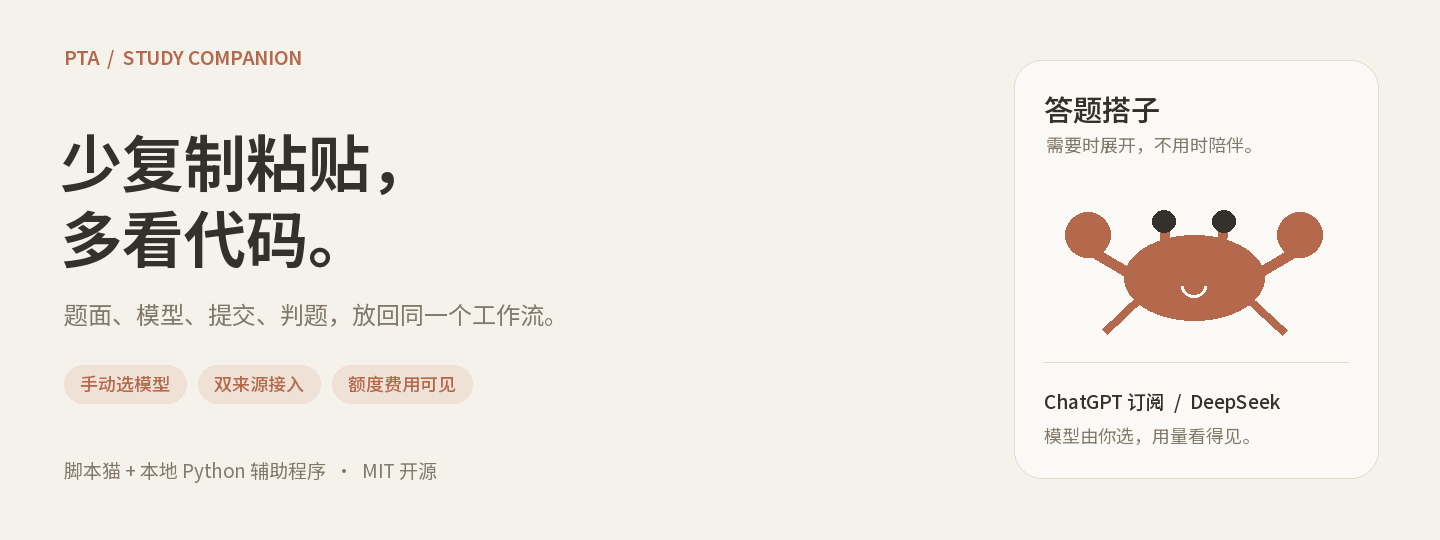
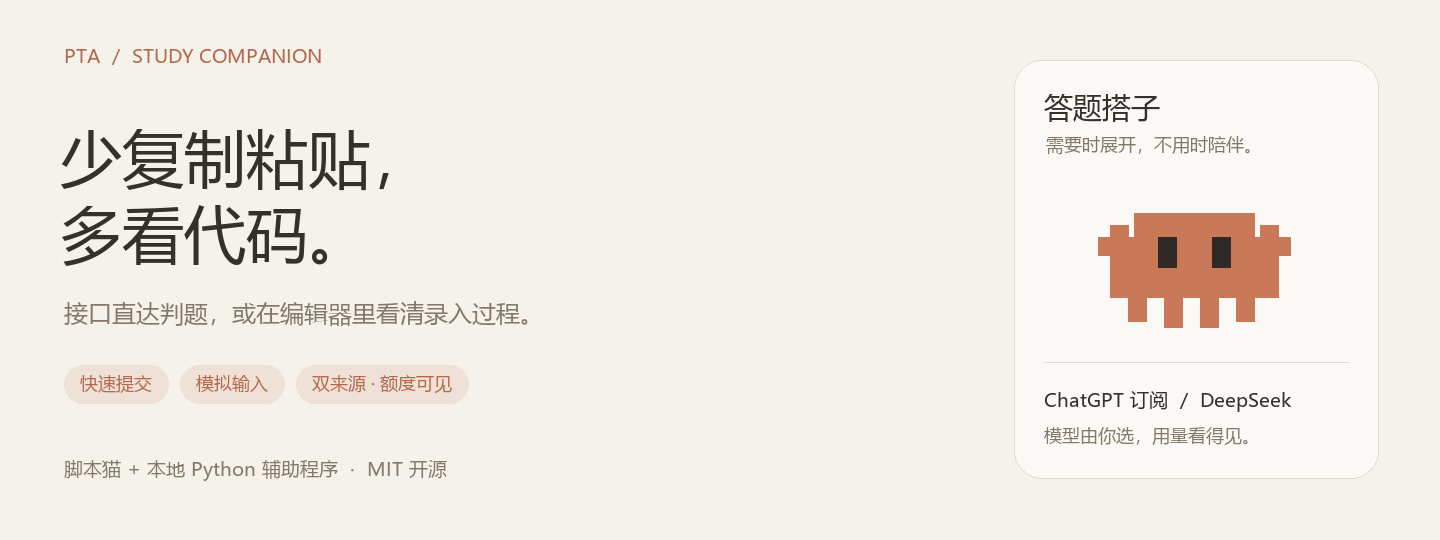
Explain answer modes, add DeepSeek-first setup and Codex guide, correct pixel mascot

diff --git a/scripts/render_readme_assets.py b/scripts/render_readme_assets.py
@@ -1,6 +1,7 @@
-"""Render original README illustrations; demo values only. Requires Pillow + external CJK font."""
+"""Render README layouts using the shipped pet SVG; demo values only. Requires Pillow + CJK font."""
 from pathlib import Path
-import argparse
+import argparse, re
+import xml.etree.ElementTree as ET
 from PIL import Image, ImageDraw, ImageFont
 
 PAPER='#F5F2EB'; CARD='#FAF9F5'; INK='#34312B'; MUTED='#82796B'; LINE='#E2DCD0'; ACCENT='#B4694D'; SOFT='#EFE1D5'
@@ -17,35 +18,60 @@ def rule(d,x,y,w):d.line((x,y,x+w,y),fill=LINE,width=1)
 def pill(d,x,y,s):
  w=int(d.textlength(s,font=font(18,500)))+32;rr(d,(x,y,x+w,y+38),SOFT,19,SOFT);text(d,(x+16,y+5),s,18,ACCENT,500);return w
 
-def crab(d,x,y,scale=1):
- # Original geometric mascot illustration, not a service-provider logo.
- for dx in [-1,1]:
-  d.line((x+dx*45*scale,y+15*scale,x+dx*83*scale,y-8*scale),fill=ACCENT,width=int(9*scale))
-  d.line((x+dx*42*scale,y+30*scale,x+dx*72*scale,y+58*scale),fill=ACCENT,width=int(7*scale))
-  d.ellipse((x+dx*85*scale-18*scale,y-38*scale,x+dx*85*scale+18*scale,y-2*scale),fill=ACCENT)
- d.ellipse((x-56*scale,y-20*scale,x+56*scale,y+48*scale),fill=ACCENT)
- for dx in [-1,1]:
-  d.line((x+dx*22*scale,y-5*scale,x+dx*24*scale,y-30*scale),fill=ACCENT,width=int(8*scale))
-  d.ellipse((x+dx*24*scale-9*scale,y-40*scale,x+dx*24*scale+9*scale,y-22*scale),fill=INK)
- d.arc((x-10*scale,y+12*scale,x+10*scale,y+30*scale),0,180,fill=CARD,width=int(3*scale))
+def pixel_pet(d,x,y,scale=1):
+ # Read the shipped artwork, rather than inventing a different mascot for docs.
+ # This intentionally supports only the orthogonal SVG commands used by PET.
+ source=(out.parents[1]/'pta-luna.user.js').read_text(encoding='utf-8')
+ match=re.search(r"const PET = '([^']+)';",source)
+ if not match:raise ValueError('PET SVG was not found in the userscript')
+ def paint(element,inherited=ACCENT):
+  fill=element.get('fill',inherited)
+  if element.tag.rsplit('}',1)[-1]=='path':
+   path=element.get('d','')
+   if re.search(r'[^MmLlHhVvZz0-9.\-\s]',path):
+    raise ValueError('PET SVG contains an unsupported path command')
+   tokens=re.findall(r'[MmLlHhVvZz]|-?\d+(?:\.\d+)?',path)
+   i=0;cx=cy=0;points=[];command=None
+   while i<len(tokens):
+    if tokens[i].isalpha():command=tokens[i];i+=1
+    if command.upper()=='Z':
+     if points:d.polygon([(x+px*scale,y+py*scale) for px,py in points],fill=fill);cx,cy=points[0]
+     points=[];command=None;continue
+    relative=command.islower();kind=command.upper()
+    if kind in ('M','L'):
+     px=float(tokens[i]);py=float(tokens[i+1]);i+=2
+     cx=px+cx if relative else px;cy=py+cy if relative else py
+     if kind=='M':
+      if points:raise ValueError('PET has an unclosed subpath')
+      command='l' if relative else 'L'
+    elif kind=='H':
+     value=float(tokens[i]);i+=1;cx=value+cx if relative else value
+    elif kind=='V':
+     value=float(tokens[i]);i+=1;cy=value+cy if relative else value
+    else:raise ValueError('Unsupported PET path command')
+    points.append((cx,cy))
+   if points:raise ValueError('PET has an unclosed path')
+  for child in element:paint(child,fill)
+ paint(ET.fromstring(match.group(1)))
 
 im=Image.new('RGB',(1440,540),PAPER);d=ImageDraw.Draw(im)
 text(d,(64,42),'PTA  /  STUDY COMPANION',19,ACCENT,600)
 text(d,(60,115),'少复制粘贴，',62,INK,650);text(d,(60,191),'多看代码。',62,INK,650)
-text(d,(64,296),'题面、模型、提交、判题，放回同一个工作流。',24,MUTED)
+text(d,(64,296),'接口直达判题，或在编辑器里看清录入过程。',24,MUTED)
 x=64
-for s in ['手动选模型','双来源接入','额度费用可见']:x+=pill(d,x,365,s)+12
+for s in ['快速提交','模拟输入','双来源 · 额度可见']:x+=pill(d,x,365,s)+12
 text(d,(64,455),'脚本猫 + 本地 Python 辅助程序  ·  MIT 开源',19,MUTED)
 rr(d,(1014,60,1378,478),CARD,28)
 text(d,(1044,87),'答题搭子',29,INK,550);text(d,(1046,131),'需要时展开，不用时陪伴。',18,MUTED)
-crab(d,1194,260,1.25)
+pixel_pet(d,1098,177,6)
 rule(d,1044,362,304);text(d,(1044,386),'ChatGPT 订阅  /  DeepSeek',19,INK,500)
 text(d,(1044,422),'模型由你选，用量看得见。',18,MUTED)
 im.save(out/'hero.png',optimize=True)
 
 im=Image.new('RGB',(1440,850),PAPER);d=ImageDraw.Draw(im)
 text(d,(44,30),'把选择权和用量，放在你看得见的地方。',34,INK,600)
-text(d,(45,87),'界面示意 · 数值为演示数据，模型与账号资格以实际接口为准',18,MUTED)
+text(d,(45,87),'Claude 风格简约布局 · Clawd 风格像素桌宠 · 数字为演示值',18,MUTED)
+pixel_pet(d,1280,20,2.5)
 # Left: root + usage submenu.
 text(d,(44,150),'01  随手唤出的桌宠菜单',20,ACCENT,550)
 rr(d,(44,197,365,520))

diff --git a/docs/CODEX_SETUP.md b/docs/CODEX_SETUP.md
@@ -1,0 +1,130 @@
+# Windows 从零配置 Codex：先装环境，再验证额度查询
+
+[返回首页](../README.md) · [项目使用指南](USAGE.md) · [排错](TROUBLESHOOTING.md)
+
+**只用 DeepSeek？无需阅读这条安装路线，直接按 [使用指南开头的简短配置](USAGE.md) 导入脚本并填写自己的 Key。** Codex / ChatGPT 订阅的模型配置也在使用指南中；本文重点补齐 CLI 安装与额度查询。
+
+这份教程针对实际遇到的两个起点：**没有安装 Node.js 环境，没有安装 Codex CLI**。下载本项目只会得到项目文件，不会自动安装这两个独立工具。以下采用 Windows PowerShell + npm 安装路线；这条路线需要先装 Node.js，Codex 官方的其他安装方式以官方文档为准。
+
+目标是让你完成 CLI 安装、ChatGPT 登录与本项目的额度查询接入。它不是整个 Codex 开发生态的配置教程，不涵盖插件、MCP、IDE 或所有自定义模型服务。账号资格和网络仍需实际验证，不能承诺每台电脑一次成功。
+
+## 先决定需要安装什么
+
+| 目标 | 必需组件 |
+| --- | --- |
+| 只用 DeepSeek 答题 | 浏览器、脚本猫、用户脚本、自己的 DeepSeek API Key |
+| 用 ChatGPT 订阅答题 | 浏览器、脚本猫、用户脚本、Python 3.10+、本地辅助程序及自己的有效 ChatGPT 授权 |
+| 在桌宠里查 Codex 额度 | 上面的本地辅助程序，加上已安装且登录同一 ChatGPT 账号的 Codex CLI；本教程用 Node.js/npm 安装 CLI |
+
+**浏览器登录 ChatGPT、辅助程序登录、Codex CLI 登录是不同环节。** 安装桌面应用也不能替代 CLI 的 PATH 检查。本项目通过 CLI 的 app-server 读取账号额度，不读取它的登录文件。
+
+## 1. 安装 Node.js LTS，确认 npm 一起可用
+
+1. 打开 [Node.js 官方下载页](https://nodejs.org/en/download)，选择当前受支持的 **LTS** 与 Windows 安装包；按电脑架构选择，不要下载其他系统版本。
+2. 运行安装程序，保留 npm 和加入 PATH 的选项。
+3. 安装完成后关闭旧 PowerShell，再开一个新窗口，依次运行：
+
+```powershell
+node --version
+npm.cmd --version
+where.exe node
+where.exe npm
+```
+
+**成功标志：** 前两条各输出版本号，后两条能找到实际安装路径。未通过就先解决 Node.js 安装或 PATH，不要继续运行 CLI 安装命令。
+
+- `node`、`npm.cmd` 都找不到：通常尚未安装，或当前窗口还没继承新 PATH。先重开终端，再检查安装。
+- `node` 可用但 `npm.cmd` 找不到：检查 Node.js 安装时是否包含 npm，以及 `where.exe node` 是否指向另一套旧环境。
+- PowerShell 提示无法运行 `npm.ps1`：这里使用 `npm.cmd`，无需为了安装去放宽系统执行策略。
+
+## 2. 用 npm 安装 Codex CLI
+
+按 [Codex 官方 CLI 文档](https://developers.openai.com/codex/cli) 的 npm 安装方式，在新 PowerShell 运行：
+
+```powershell
+npm.cmd install -g @openai/codex@latest
+```
+
+安装命令成功结束后，再检查：
+
+```powershell
+codex.cmd --version
+where.exe codex
+```
+
+**成功标志：** CLI 输出版本号，并能找到 `codex` 启动文件。Node.js 安装成功不等于 Codex CLI 已安装；`npm --version` 也不能替代这一步。
+
+如果安装报 `EPERM`、默认全局目录不可写，可按 [使用指南](USAGE.md) 的当前用户目录方案安装。若 npm 安装成功但找不到命令，运行 `npm.cmd prefix -g` 查看实际全局目录；Windows 的 npm 启动文件通常放在这个目录。确认目录中的 `codex.cmd` 存在，再检查该目录是否加入用户 PATH，并重开终端。不要猜磁盘路径或给整个磁盘放开权限。
+
+## 3. 登录与辅助程序相同的 ChatGPT 账号
+
+先关闭正在运行的本地辅助程序，避免登录回调端口冲突。运行：
+
+```powershell
+codex.cmd login
+```
+
+在打开的官方登录页选择与本地辅助程序相同的 ChatGPT 账号，完成授权后回到终端。然后检查：
+
+```powershell
+codex.cmd login status
+```
+
+**成功标志：** 登录状态表明已使用 ChatGPT 登录，而不是未登录或仅配置了 API Key。不要把登录凭据复制进脚本或公开截图。
+
+需要独立使用 Codex 编程时，可在自己的项目目录运行 `codex.cmd`，做一次最小任务并检查结果；这会使用账号额度。只想接入额度查询时，不必额外生成代码。
+
+## 4. 验证 CLI 支持 app-server
+
+```powershell
+codex.cmd app-server --help
+```
+
+**成功标志：** 能显示 app-server 帮助。如果是未知子命令，先更新 CLI。这里只检查命令能力，不代表账号额度接口已经成功；无需手动启动并长期保留 app-server，辅助程序会按需启动它。
+
+## 5. 重启辅助程序，完成本项目连接
+
+1. 确认已退出旧辅助程序；安装前启动的进程可能还在使用旧 PATH。
+2. 从新终端进入完整解压的项目目录，运行 `start-windows.cmd`（或在资源管理器中双击）。如果双击仍看不到 CLI，优先从已经能执行 `where.exe codex` 的新终端启动。
+3. 在管理页用自己的 ChatGPT 账号登录；若此前已登录，先核对账号，无需为更新文档重新登录。
+4. 在 PTA 的“解题模型设置”填入本机地址和配对码，点击“读取账号模型并检查连接”，选择模型与推理强度并保存。
+5. 右键桌宠 → **消耗体力 → Codex 额度**。
+
+在 PowerShell 中进入项目目录后，启动命令是：
+
+```powershell
+.\start-windows.cmd
+```
+
+**最终成功标志：** 额度卡片显示接口返回的窗口、剩余百分比和重置时间。仅看到 CLI 版本、登录成功或模型目录，都不能代替这次查询验证。
+
+首次查询没有可比较基线，括号为 `（—）` 是正常状态；15 秒内可能使用标记过的缓存。百分比来自账号整体窗口，不等于本脚本的单题费用。CLI 与辅助程序邮箱不一致时，程序会拒绝展示；工作区仍需自行核对。
+
+## 两个实际遇到的问题
+
+| 问题 | 现象与原因 | 解决后怎样确认 |
+| --- | --- | --- |
+| Node.js 环境没安装 | npm 安装路线的第一步就无法执行，提示 `node` 或 `npm` 不是可识别命令；项目 ZIP 不包含 Node.js | 安装官方 LTS、重开终端，`node --version` 与 `npm.cmd --version` 都输出版本号 |
+| Codex CLI 没安装 | Node.js 已经可用，但 `codex` 找不到，桌宠提示未检测到 CLI；Node.js 不会自动安装 Codex | 执行 npm 安装，确认 `codex.cmd --version`、`where.exe codex`，再登录、重启辅助程序并实际查询额度 |
+
+## 按这一顺序排查
+
+```text
+node / npm 都找不到 → 先安装 Node.js LTS，再开新终端
+npm 能运行，codex 找不到 → 安装 CLI，检查 npm 全局目录与 PATH
+CLI 能运行，尚未登录 → codex.cmd login，再检查 login status
+登录成功，项目仍找不到 CLI → 退出旧辅助程序，从新终端重新启动
+提示账号不一致 → 核对 CLI 和辅助程序的 ChatGPT 账号
+额度卡片仍失败 → 保存脱敏错误，按排错文档检查；不要反复发起推理
+```
+
+安装和查询额度不会替你完成 PTA 脚本导入、模型选择或练习题的在线验证。完整答题流程还需按 [使用指南](USAGE.md) 做一题检查。
+
+## 官方资料
+
+- [Node.js 下载](https://nodejs.org/en/download)
+- [Codex CLI 安装与首次使用](https://developers.openai.com/codex/cli)
+- [Codex 命令参考：login、login status、app-server](https://developers.openai.com/codex/cli/reference)
+- [Codex app-server 账号与额度接口](https://developers.openai.com/codex/app-server)
+
+核对日期：2026-10-17。上游命令、账号能力与可用模型变化时，以官方文档和实际响应为准。

diff --git a/docs/TROUBLESHOOTING.md b/docs/TROUBLESHOOTING.md
@@ -2,10 +2,14 @@
 
 [返回首页](../README.md)
 
+**实际配置中遇到过：Node.js 环境未安装、Codex CLI 未安装。** 两者都不会随项目 ZIP 自动安装。先按 [从零配置教程](CODEX_SETUP.md) 检查环境，再排查登录和额度查询。
+
 | 现象 | 优先检查 |
 | --- | --- |
 | 双击启动器后缺文件 | 完整解压 ZIP；`bridge.py`、`manager.html`、`requirements.txt` 和启动器需要在同一目录 |
 | 缺 Python / pip 安装失败 | 安装 Python 3.10+ 并加入 PATH；查看控制台具体错误，确认可连接包索引 |
+| `node` / `npm` 不是可识别命令 | 本教程的 npm 安装路线需先安装 Node.js LTS；从官方安装包安装 Node.js 与 npm，再重开 PowerShell。`node --version`、`npm.cmd --version` 都应输出版本号 |
+| Node.js 可用，`codex` 仍找不到 | Node.js 不包含 Codex CLI。运行 `npm.cmd install -g @openai/codex@latest`，成功后检查 `codex.cmd --version` 和 `where.exe codex`；若已安装则检查 npm 全局目录与 PATH |
 | 端口 1455 被占用 | 关闭旧辅助程序；如 CLI 登录占用同一端口，先关辅助程序再登录 CLI。也可通过启动参数换空闲端口，并同步脚本地址 |
 | 脚本连不上本机 | 控制台是否还开着；地址/配对码是否匹配；脚本猫和浏览器是否允许访问本机网络 |
 | 模型列表只有 Luna | 在设置页向下找到「读取账号模型并检查连接」并点击，查看返回的模型数量或错误。CLI 安装不会自动刷新目录 |

diff --git a/CHANGELOG.md b/CHANGELOG.md
@@ -1,5 +1,13 @@
 # 更新记录
 
+## 文档与配图更新 · 2026-10-17
+
+- 首页突出快速提交与模拟输入的实际流程、适用场景及边界，并单独说明 ChatGPT / DeepSeek 两种模型来源。
+- 补充 Claude 风格的简约界面、Clawd 风格像素桌宠与各项互动行为；宣传图复用脚本 SVG，移除不一致的圆形螃蟹。
+- 新增 Windows Codex 从零配置教程，明确 Node.js/npm、CLI、登录、app-server 与最终额度查询的逐步验证；写入实际遇到的未安装 Node.js、未安装 CLI 两个问题。
+- 使用教程按模型来源分为 DeepSeek 简短配置在前、Codex / ChatGPT 订阅详细配置在后。
+- 本次仅修改文档和配图，不改变用户脚本与辅助程序版本。
+
 ## v1.2.1 · 用户脚本 0.11.1 / 辅助程序 1.2.0
 
 - 统一桌宠主菜单、消耗体力子菜单、Codex 额度及 DeepSeek 费用卡片的暖色简洁样式。
